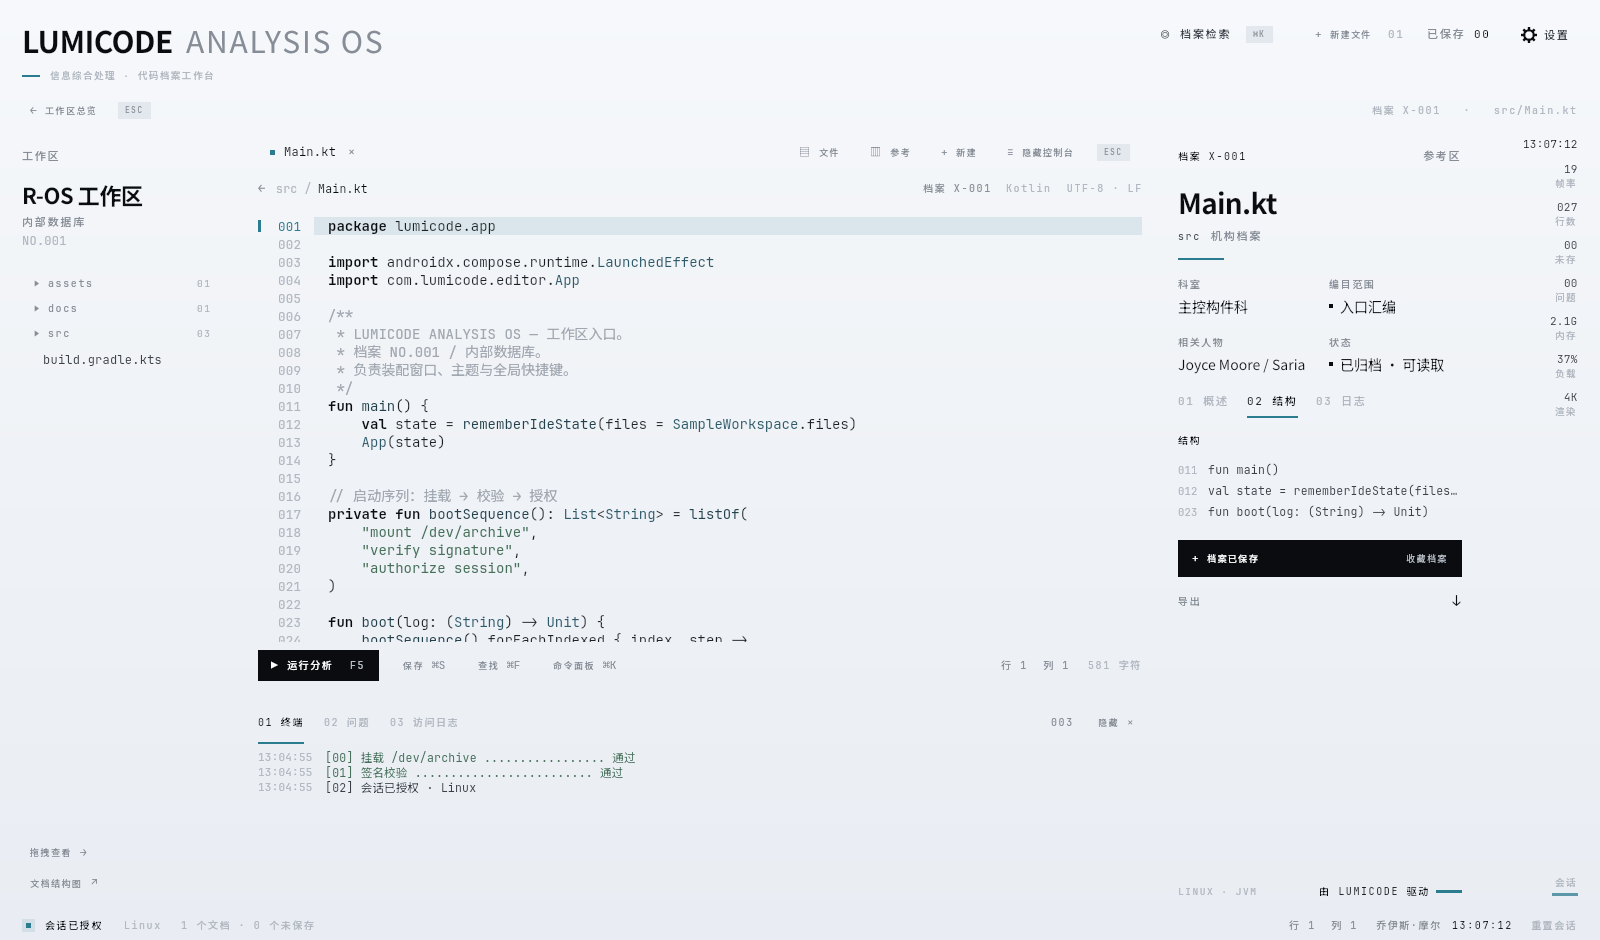
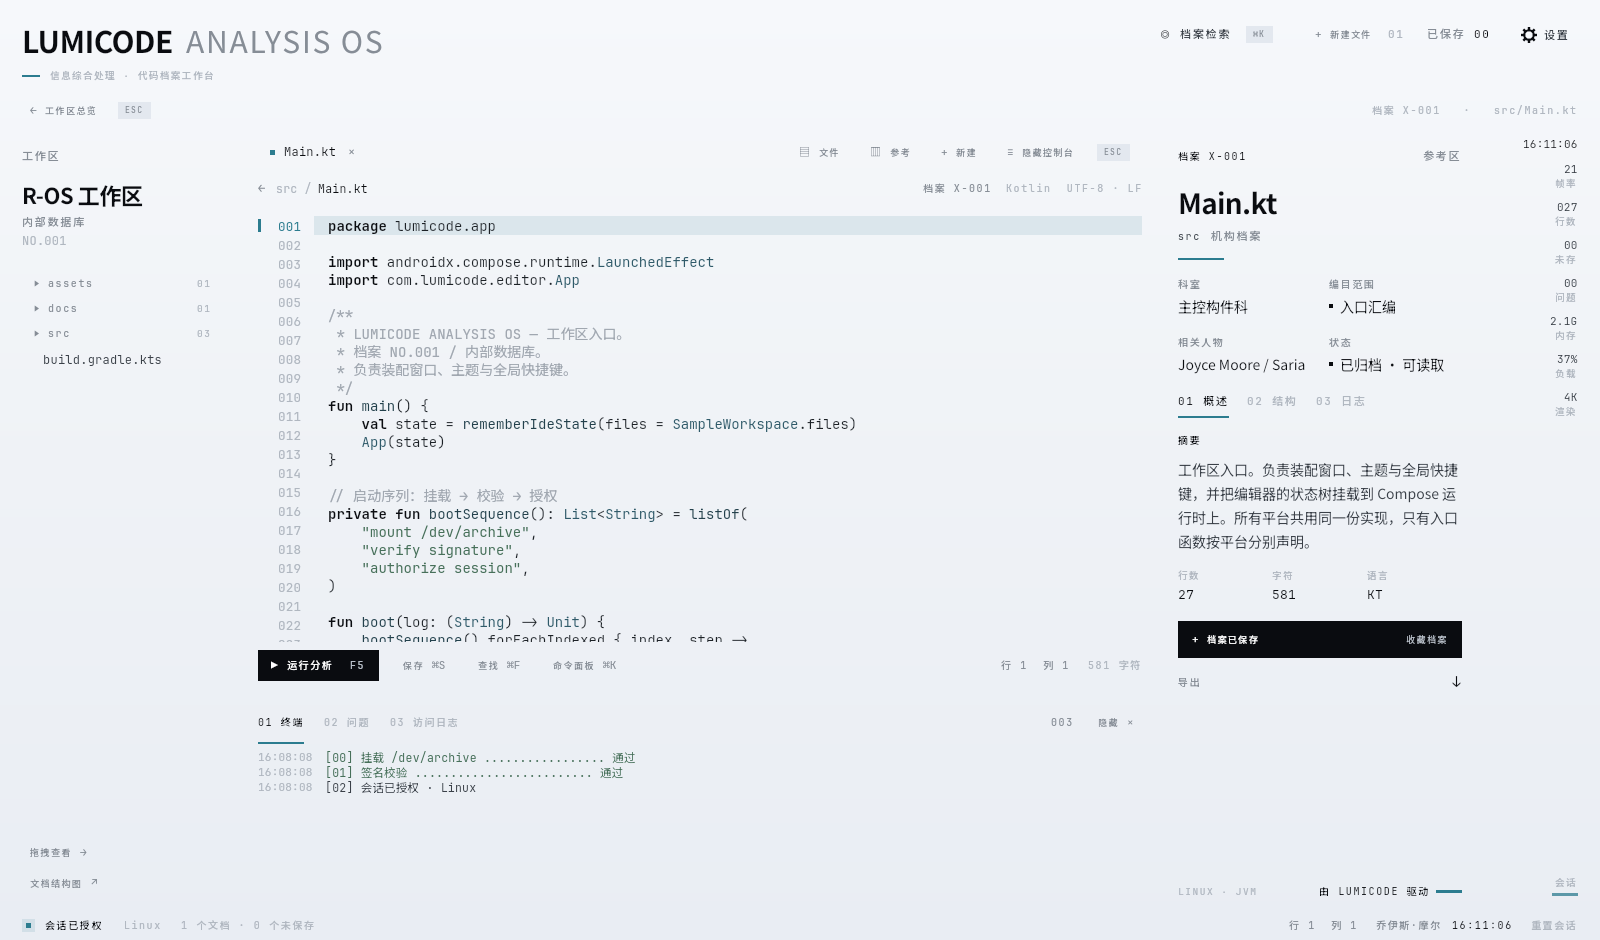
fix(editor): 软换行下行号栏/高亮带与文本脱钩；侧栏出现消失加动画
1) 窄屏换行时行号错位、末尾编号被吃掉
   行号栏原来是「一个逻辑行 = 一行高度」画的，一旦软换行就整体错位，
   而且行号栏比文本短，最后几行编号直接没了。
   现在从 onTextLayout 取真实布局，为每个逻辑行算出它占据的**视觉行范围**
   （首个视觉行 → 末个视觉行），行号按这个跨度占位：
   续行自然留空，编号与文本永远同步。
   当前行光带和侧边标记也改用同一范围，所以换行的行会**整段**被高亮，
   光标自动滚动同样按视觉位置算。

2) 横向滚动 → 一律软换行
   原来靠「估算字符宽度」决定要不要横向滚动：估得准就横滚、估不准就换行，
   行为不一致（web 上内置字体异步加载，估算会偏）。
   现在代码区永远铺满可用宽度，长行一律软换行、代码永远完整可见。

3) 工作区 / 参考区的出现与消失
   侧栏改成 expandHorizontally / shrinkHorizontally + 淡入淡出，
   中栏是 weight(1f) 会跟着一起收放 —— 代码区是"被让出空间"，
   而不是被闪一下。参考区锚在右端（从右边让出/收回）。

截图新增 08-narrow-soft-wrap.png。

diff --git a/composeApp/src/commonMain/kotlin/com/lumicode/editor/ui/CodeEditor.kt b/composeApp/src/commonMain/kotlin/com/lumicode/editor/ui/CodeEditor.kt
@@ -4,7 +4,6 @@ import androidx.compose.animation.core.Animatable
 import androidx.compose.animation.core.FastOutSlowInEasing
 import androidx.compose.animation.core.animateDpAsState
 import androidx.compose.animation.core.tween
-import androidx.compose.foundation.horizontalScroll
 import androidx.compose.foundation.layout.Box
 import androidx.compose.foundation.layout.BoxWithConstraints
 import androidx.compose.foundation.layout.Column
@@ -45,7 +44,6 @@ import androidx.compose.ui.text.input.OffsetMapping
 import androidx.compose.ui.text.input.TextFieldValue
 import androidx.compose.ui.text.input.TransformedText
 import androidx.compose.ui.text.input.VisualTransformation
-import androidx.compose.ui.text.rememberTextMeasurer
 import androidx.compose.ui.unit.dp
 import com.lumicode.editor.model.Language
 import com.lumicode.editor.state.LineKind
@@ -85,15 +83,13 @@ fun CodeEditor(
         mutableStateOf(with(density) { RlSettings.codeLineHeight.toPx() })
     }
     val lineHeight = with(density) { lineHeightPx.toDp() }
-    val verticalScroll = rememberScrollState()
-    val horizontalScroll = rememberScrollState()
-    val measurer = rememberTextMeasurer()
 
-    // 等宽字符宽度：字号变了要重新量，行号栏与横向滚动范围都靠它对齐
-    val charWidth = remember(measurer, RlSettings.codeFontSize) {
-        val measured = measurer.measure("0000000000", RlType.code)
-        (measured.size.width / 10f).toInt().coerceAtLeast(1)
-    }
+    // 视觉行模型：软换行会把一个逻辑行摊成多个视觉行。行号栏、当前行高亮带、
+    // 光标自动滚动都必须按「逻辑行占据的视觉范围」来定位，否则一换行就整体错位。
+    var lineTops by remember(path) { mutableStateOf<List<Float>>(emptyList()) }
+    var lineBottoms by remember(path) { mutableStateOf<List<Float>>(emptyList()) }
+    var layoutHeightPx by remember(path) { mutableStateOf(0f) }
+    val verticalScroll = rememberScrollState()
 
     var value by remember(path) { mutableStateOf(TextFieldValue(text, TextRange(0))) }
 
@@ -109,7 +105,6 @@ fun CodeEditor(
     LaunchedEffect(path) {
         value = TextFieldValue(text, TextRange(0))
         verticalScroll.scrollTo(0)
-        horizontalScroll.scrollTo(0)
     }
 
     // Keep the buffer in sync when the document changes from the outside (e.g. new file).
@@ -153,10 +148,17 @@ fun CodeEditor(
         val lineCount = value.text.count { it == '\n' } + 1
         val showLineNumbers = RlSettings.showLineNumbers
         val gutterWidth = if (showLineNumbers) RlDimens.gutterWidth else 0.dp
-        val contentHeight = RlDimens.codePaddingTop + lineHeight * lineCount + 28.dp
-        val longest = value.text.split('\n').maxOfOrNull { it.length } ?: 0
-        val codeWidth = with(density) { (charWidth * longest).toDp() } + RlDimens.codePaddingStart + 48.dp
-        val totalWidth = maxOf(maxWidth, gutterWidth + codeWidth)
+        // 布局还没回来时退化成等距，回来后立刻切到真实视觉位置
+        val fallbackTops = List(lineCount) { it * lineHeightPx }
+        val fallbackBottoms = List(lineCount) { (it + 1) * lineHeightPx }
+        val tops = if (lineTops.size == lineCount) lineTops else fallbackTops
+        val bottoms = if (lineBottoms.size == lineCount) lineBottoms else fallbackBottoms
+        val textHeight = if (layoutHeightPx > 0f) {
+            with(density) { layoutHeightPx.toDp() }
+        } else {
+            lineHeight * lineCount
+        }
+        val contentHeight = RlDimens.codePaddingTop + textHeight + 28.dp
         val totalHeight = maxOf(maxHeight, contentHeight)
 
         val activeLine = SyntaxHighlighter.lineOf(value.text, value.selection.start) + 1
@@ -164,9 +166,9 @@ fun CodeEditor(
         // 上下键（或输入）把光标移出可视区时自动滚动，保证光标行始终可见
         val cursorLineIndex = SyntaxHighlighter.lineOf(value.text, value.selection.start)
         val viewportHeightPx = with(density) { maxHeight.toPx() }
-        LaunchedEffect(cursorLineIndex, viewportHeightPx) {
-            val top = cursorLineIndex * lineHeightPx
-            val bottom = top + lineHeightPx
+        LaunchedEffect(cursorLineIndex, viewportHeightPx, tops, bottoms) {
+            val top = tops.getOrElse(cursorLineIndex) { cursorLineIndex * lineHeightPx }
+            val bottom = bottoms.getOrElse(cursorLineIndex) { top + lineHeightPx }
             val scroll = verticalScroll.value.toFloat()
             when {
                 top < scroll -> verticalScroll.scrollTo(top.toInt().coerceAtLeast(0))
@@ -175,20 +177,25 @@ fun CodeEditor(
             }
         }
 
-        // 光标移动时：行高亮带与侧边标记平滑滑过去，而不是瞬间跳
+        // 光标移动时：行高亮带与侧边标记平滑滑过去，而不是瞬间跳。
+        // 位置和高度都取当前逻辑行的真实视觉范围 —— 换行的行会整段被高亮。
+        val activeTopPx = tops.getOrElse(activeLine - 1) { (activeLine - 1) * lineHeightPx }
+        val activeBottomPx = bottoms.getOrElse(activeLine - 1) { activeTopPx + lineHeightPx }
         val lineOffset by animateDpAsState(
-            targetValue = lineHeight * (activeLine - 1),
+            targetValue = with(density) { activeTopPx.toDp() },
             animationSpec = tween(durationMillis = 140, easing = FastOutSlowInEasing),
             label = "activeLineOffset",
         )
+        val activeSpan = with(density) { (activeBottomPx - activeTopPx).toDp() }
 
+        // 只有纵向滚动：长行一律软换行，代码永远完整可见。
+        // 行号栏按「逻辑行的视觉跨度」占位，所以换行的续行自然留空、编号不会错位。
         Box(
             Modifier
                 .fillMaxSize()
-                .verticalScroll(verticalScroll)
-                .horizontalScroll(horizontalScroll),
+                .verticalScroll(verticalScroll),
         ) {
-            Row(Modifier.size(totalWidth, totalHeight)) {
+            Row(Modifier.fillMaxWidth().height(totalHeight)) {
                 // ------------------------------------------------------- gutter
                 if (showLineNumbers) {
                     Box(Modifier.width(gutterWidth).fillMaxHeight()) {
@@ -201,28 +208,42 @@ fun CodeEditor(
                             for (line in 1..lineCount) {
                                 val isActive = line == activeLine
                                 val marker = problemLines[line]
-                                Box(Modifier.height(lineHeight).fillMaxWidth()) {
-                                    BasicText(
-                                        text = line.toString().padStart(3, '0'),
-                                        modifier = Modifier
-                                            .align(Alignment.CenterEnd)
-                                            .padding(end = 12.dp),
-                                        style = RlType.codeGutter.copy(
-                                            color = if (isActive) RlColors.Accent else RlColors.Faint,
-                                        ),
-                                    )
-                                    if (marker != null) {
-                                        Box(
-                                            Modifier
+                                // 行号占的是「这个逻辑行的全部视觉行」；换行产生的续行
+                                // 没有编号，也不会有东西挤上来 —— 编号与文本永远同步
+                                val span = with(density) {
+                                    (bottoms[line - 1] - tops[line - 1]).toDp()
+                                }.coerceAtLeast(lineHeight)
+                                Box(Modifier.height(span).fillMaxWidth()) {
+                                    Box(
+                                        Modifier
+                                            .align(Alignment.TopEnd)
+                                            .fillMaxWidth()
+                                            .height(lineHeight),
+                                    ) {
+                                        BasicText(
+                                            text = line.toString().padStart(3, '0'),
+                                            modifier = Modifier
                                                 .align(Alignment.CenterEnd)
-                                                .padding(end = 3.dp)
-                                                .size(4.dp)
-                                                .wash(when (marker) {
-                                                        LineKind.ERROR -> RlColors.Ink
-                                                        LineKind.WARN -> RlColors.Muted
-                                                        else -> RlColors.Faint
-                                                    }),
+                                                .padding(end = 12.dp),
+                                            style = RlType.codeGutter.copy(
+                                                color = if (isActive) RlColors.Accent else RlColors.Faint,
+                                            ),
                                         )
+                                        if (marker != null) {
+                                            Box(
+                                                Modifier
+                                                    .align(Alignment.CenterEnd)
+                                                    .padding(end = 3.dp)
+                                                    .size(4.dp)
+                                                    .wash(
+                                                        when (marker) {
+                                                            LineKind.ERROR -> RlColors.Ink
+                                                            LineKind.WARN -> RlColors.Muted
+                                                            else -> RlColors.Faint
+                                                        },
+                                                    ),
+                                            )
+                                        }
                                     }
                                 }
                             }
@@ -232,7 +253,7 @@ fun CodeEditor(
                             Modifier
                                 .offset(y = RlDimens.codePaddingTop + lineOffset + 3.dp)
                                 .width(3.dp)
-                                .height((lineHeight - 6.dp).coerceAtLeast(4.dp))
+                                .height((activeSpan - 6.dp).coerceAtLeast(4.dp))
                                 .wash(RlColors.Accent),
                         )
                     }
@@ -250,7 +271,7 @@ fun CodeEditor(
                         Modifier
                             .offset(y = RlDimens.codePaddingTop + lineOffset)
                             .fillMaxWidth()
-                            .height(lineHeight)
+                            .height(activeSpan)
                             .wash(RlColors.AccentSoft),
                     )
                     BasicTextField(
@@ -279,6 +300,27 @@ fun CodeEditor(
                             if (measured > 1f && kotlin.math.abs(measured - lineHeightPx) > 0.01f) {
                                 lineHeightPx = measured
                             }
+
+                            // 逐逻辑行问一次布局：它从哪个视觉行开始、到哪个视觉行结束
+                            val src = result.layoutInput.text
+                            val tops = ArrayList<Float>()
+                            val bottoms = ArrayList<Float>()
+                            var start = 0
+                            while (true) {
+                                val nl = src.indexOf('\n', start)
+                                val end = if (nl < 0) src.length else nl
+                                val first = result.getLineForOffset(start)
+                                val probe = if (end > start) end - 1 else start
+                                val last = result.getLineForOffset(probe)
+                                tops.add(result.getLineTop(first).toFloat())
+                                bottoms.add(result.getLineBottom(last).toFloat())
+                                if (nl < 0) break
+                                start = nl + 1
+                            }
+                            if (tops != lineTops) lineTops = tops
+                            if (bottoms != lineBottoms) lineBottoms = bottoms
+                            val h = result.size.height.toFloat()
+                            if (h != layoutHeightPx) layoutHeightPx = h
                         },
                         visualTransformation = VisualTransformation { annotated ->
                             if (annotated.text == value.text) {

diff --git a/composeApp/src/commonMain/kotlin/com/lumicode/editor/App.kt b/composeApp/src/commonMain/kotlin/com/lumicode/editor/App.kt
@@ -1,9 +1,11 @@
 package com.lumicode.editor
 
 import androidx.compose.animation.AnimatedVisibility
+import androidx.compose.animation.expandHorizontally
 import androidx.compose.animation.expandVertically
 import androidx.compose.animation.fadeIn
 import androidx.compose.animation.fadeOut
+import androidx.compose.animation.shrinkHorizontally
 import androidx.compose.animation.shrinkVertically
 import androidx.compose.animation.slideInHorizontally
 import androidx.compose.animation.slideOutHorizontally
@@ -243,7 +245,20 @@ fun App(state: IdeState) {
             )
 
             Row(Modifier.weight(1f).fillMaxWidth()) {
-                if (state.explorerVisible && !compact) {
+                // 侧栏的出现/消失也走宽度动画：中栏是 weight(1f)，会跟着一起收放，
+                // 所以代码区是"被让出空间"而不是"被闪一下"
+                AnimatedVisibility(
+                    visible = state.explorerVisible && !compact,
+                    enter = expandHorizontally(
+                        animationSpec = RlMotion.enter(200),
+                        expandFrom = Alignment.Start,
+                    ) + fadeIn(RlMotion.enter(160)),
+                    exit = shrinkHorizontally(
+                        animationSpec = RlMotion.exit(150),
+                        shrinkTowards = Alignment.Start,
+                    ) + fadeOut(RlMotion.exit(90)),
+                    label = "explorer",
+                ) {
                     ExplorerPanel(state)
                 }
                 // 不再有"编辑卡片"：整个中栏就是一块连续的平面，
@@ -286,7 +301,18 @@ fun App(state: IdeState) {
                         }
                     }
                 }
-                if (state.referenceVisible && !compact) {
+                AnimatedVisibility(
+                    visible = state.referenceVisible && !compact,
+                    enter = expandHorizontally(
+                        animationSpec = RlMotion.enter(200),
+                        expandFrom = Alignment.End,
+                    ) + fadeIn(RlMotion.enter(160)),
+                    exit = shrinkHorizontally(
+                        animationSpec = RlMotion.exit(150),
+                        shrinkTowards = Alignment.End,
+                    ) + fadeOut(RlMotion.exit(90)),
+                    label = "reference",
+                ) {
                     ReferencePanel(state)
                 }
                 if (!compact && RlSettings.showRail) TelemetryRail(state, clock, fps)
